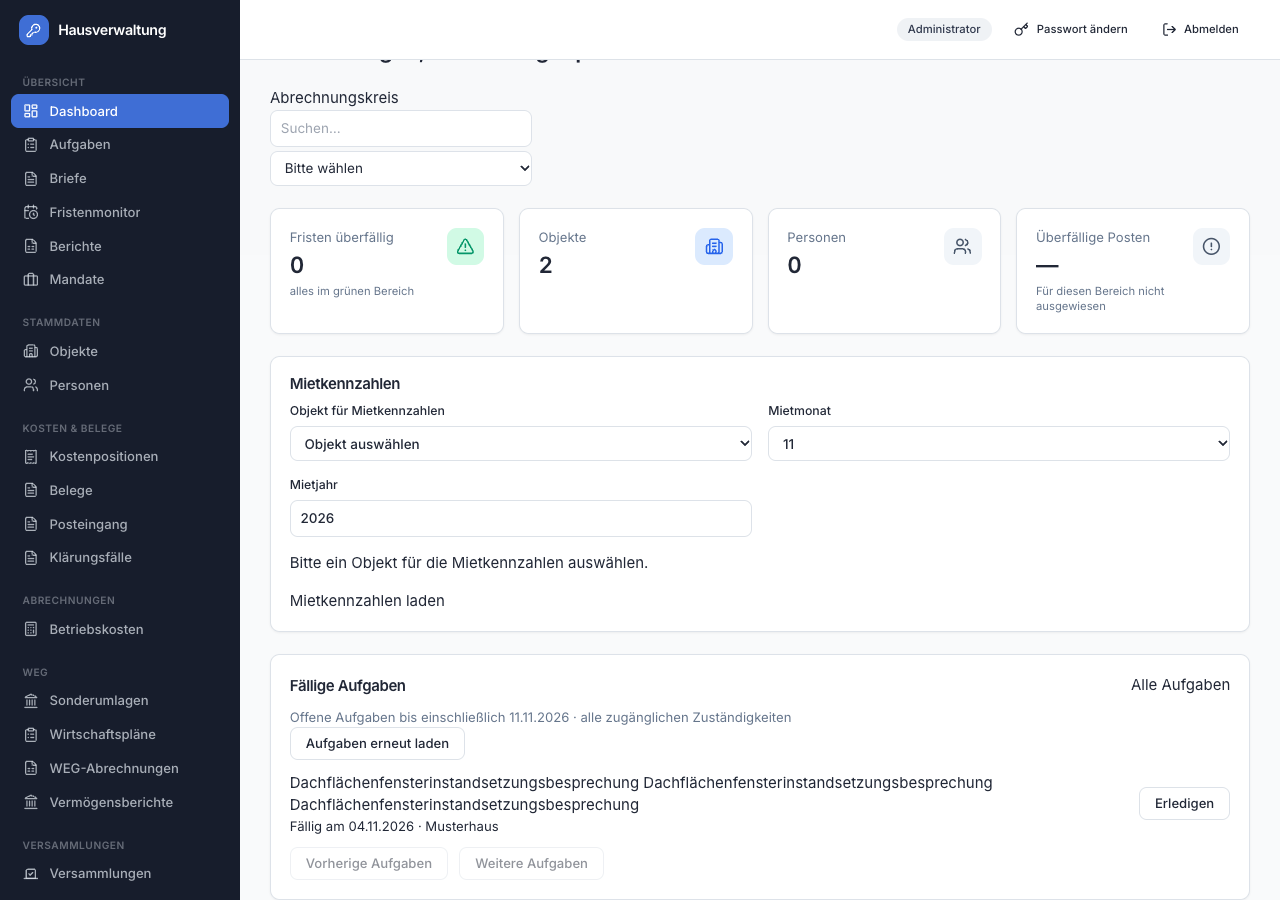
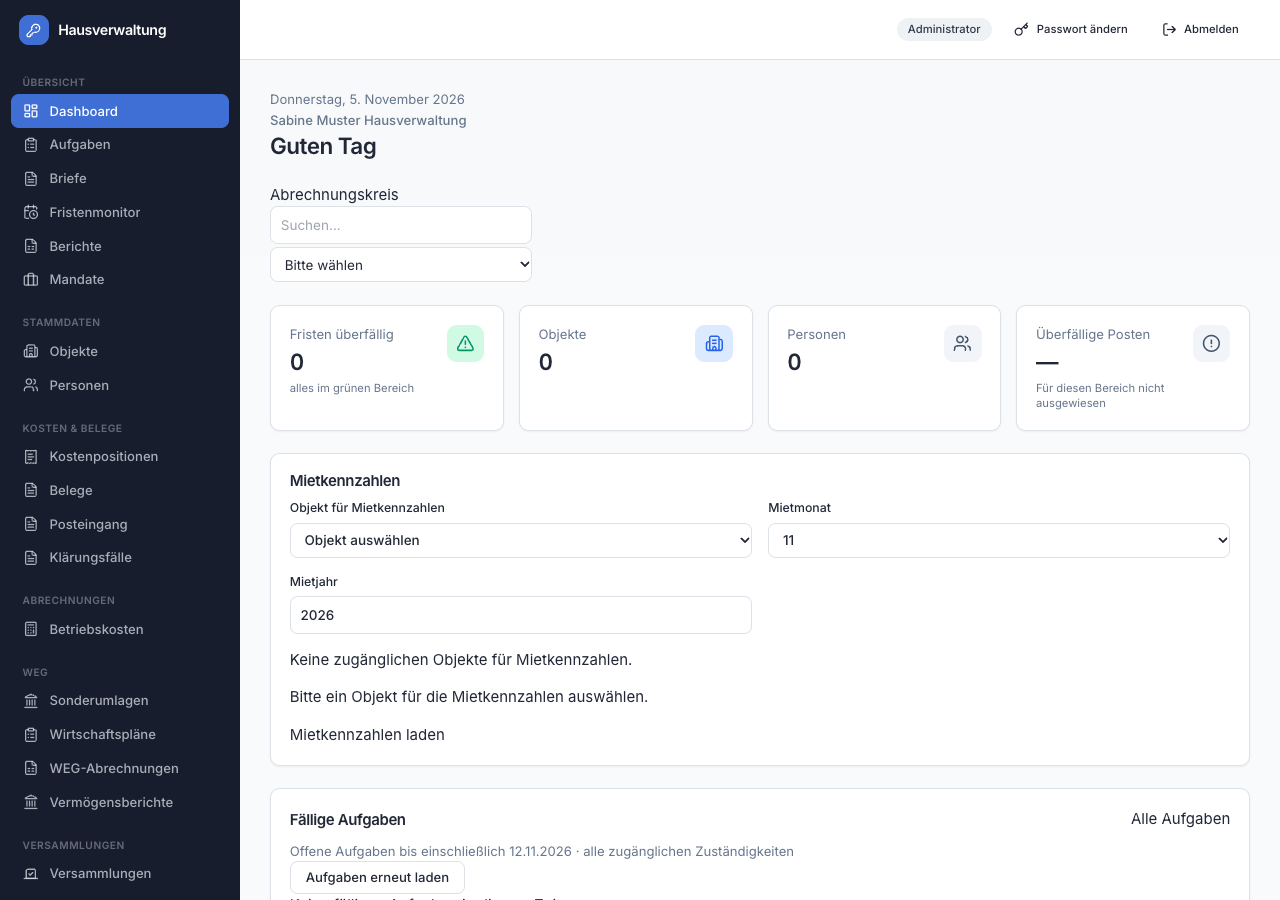
test(dashboard): retain greeting comparisons and align assertions
The greeting change left a stale finance assertion and lacked browser comparisons.

Retain actual baseline/current captures, align the financial overview assertion,
and make external-target skips boolean.

Tests: baseline browser 2 red; corrected browser 2 green; components 23 green;
make lint; make docs-check.

Refs #176

diff --git a/frontend/src/pages/FinancialOverviewAvailability.test.tsx b/frontend/src/pages/FinancialOverviewAvailability.test.tsx
@@ -37,7 +37,8 @@ it("keeps successful master counts and marks failed dashboard finance unavailabl
   await act(async () => request.reject(new Error("Financial overview requires scope")));
   expect(await screen.findByRole("alert")).toHaveTextContent("Financial overview requires scope");
   expectNoAllClear();
-  expect(screen.getByRole("heading", { level: 1 })).toHaveTextContent("Testverwaltung");
+  expect(screen.getByRole("heading", { level: 1 })).toHaveTextContent(/^Guten Tag$/);
+  expect(screen.getByText("Testverwaltung", { exact: true })).toBeInTheDocument();
   expect(within(screen.getByRole("link", { name: /^Objekte/ })).getByText("2")).toBeInTheDocument();
   expect(within(screen.getByRole("link", { name: /^Personen 1/ })).getByText("1")).toBeInTheDocument();
   for (const label of [/^Fristen überfällig/, /^Überfällige Posten/]) {

diff --git a/backend/tests/bdd/test_dashboard_greeting.py b/backend/tests/bdd/test_dashboard_greeting.py
@@ -17,7 +17,7 @@ from tests.bdd.world import target_url
 
 ROOT = Path(__file__).resolve().parents[3]
 scenarios(str(ROOT / "features/journeys/dashboard_greeting.feature"))
-pytestmark = pytest.mark.skipif(target_url(), reason="Fresh dashboard identity requires the local disposable test database")
+pytestmark = pytest.mark.skipif(bool(target_url()), reason="Fresh dashboard identity requires the local disposable test database")
 
 
 @pytest_asyncio.fixture

diff --git a/DESIGN.md b/DESIGN.md
@@ -1051,9 +1051,21 @@ The hosted quota images use the running frontend with synthetic API responses.
 The signup and password recovery images use synthetic deployment metadata and
 captured API responses. These are visual/360 px geometry checks, not end-to-end proof.
 
-The property-detail and dashboard images focus on the units and due-task cards at
-360 and 1280 px, using twelve long synthetic unit rows and a long task title from
-`features/responsive_property_dashboard.feature`. The upload card is captured in
+The dashboard images show the greeting and separate organization context for the
+fresh synthetic organization “Sabine Muster Hausverwaltung” at 1280 × 900 and
+360 × 900 px. The baseline captures use the dashboard source from `c8aeebe6`:
+[`issue-176-before-dashboard-desktop.png`](docs/assets/design/issue-176-before-dashboard-desktop.png)
+and [`issue-176-before-dashboard-360.png`](docs/assets/design/issue-176-before-dashboard-360.png).
+The matching current images are `dashboard-desktop.png` and `dashboard-360.png` in
+the table above. All four are unedited browser captures using the same deterministic
+synthetic organization identity and data in separately started, locked local test-harness
+runs. The exact “Guten Tag” heading assertion fails on the baseline; the corrected
+dashboard passes at both widths.
+
+The property-detail images focus on the units card at 360 and 1280 px, using twelve
+long synthetic unit rows from `features/responsive_property_dashboard.feature`.
+Earlier dashboard due-task captures from that feature remain in `issue-52-before-*`.
+The upload card is captured in
 `detail-upload-360.png` and `detail-upload-desktop.png`. Matching `issue-52-before-*`
 images preserve the baseline on the same data. The dashboard KPI images show the
 form with a long property option; its baseline captures are
